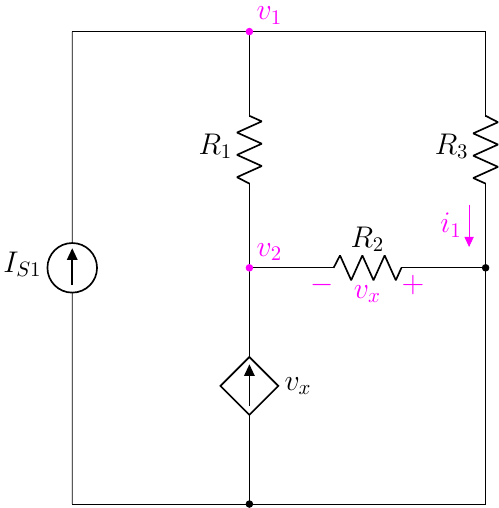
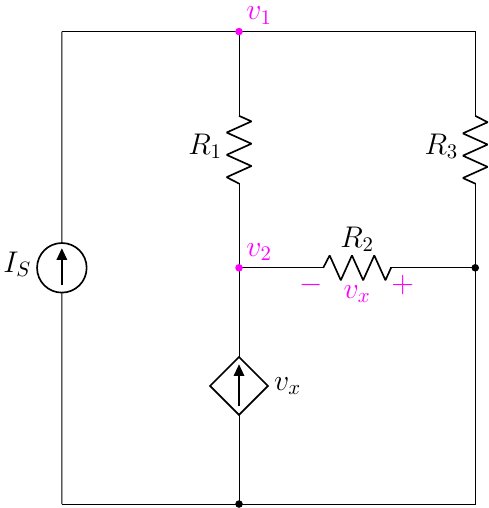
add 4.17

diff --git a/1.3 Nodal Analysis/4.1 Nodal Analysis/4.17(new).tex b/1.3 Nodal Analysis/4.1 Nodal Analysis/4.17(new).tex
@@ -2,7 +2,7 @@
 \begin{document}
 \begin{circuitikz}[american]
     %%% vertical %%%
-    \draw (-1,0) to[I, l=\isname{1}] ++(0,8);
+    \draw (-1,0) to[I, l=\isname{}] ++(0,8);
 
     \draw (2,0) to[american controlled current source, l_=$v_{x}$, *-] ++(0,4) 
                 to[R,l=\rname{1}] ++(0,4);
@@ -15,7 +15,7 @@
     \draw(2,4) to[R,l=\rname{2}] ++(4,0);
 
     %%% find %%%
-    \draw[circuitikz/current arrow color=magenta] (6,8) to[R,l_=\rname{3},f_>=$\color{magenta}{i_1}$,-*] ++(0,-4);
+    \draw (6,8) to[R,l_=\rname{3},-*] ++(0,-4);
 
     \draw[color=magenta](3,4) to[open,v>=$v_x$] ++(2,0);
 
